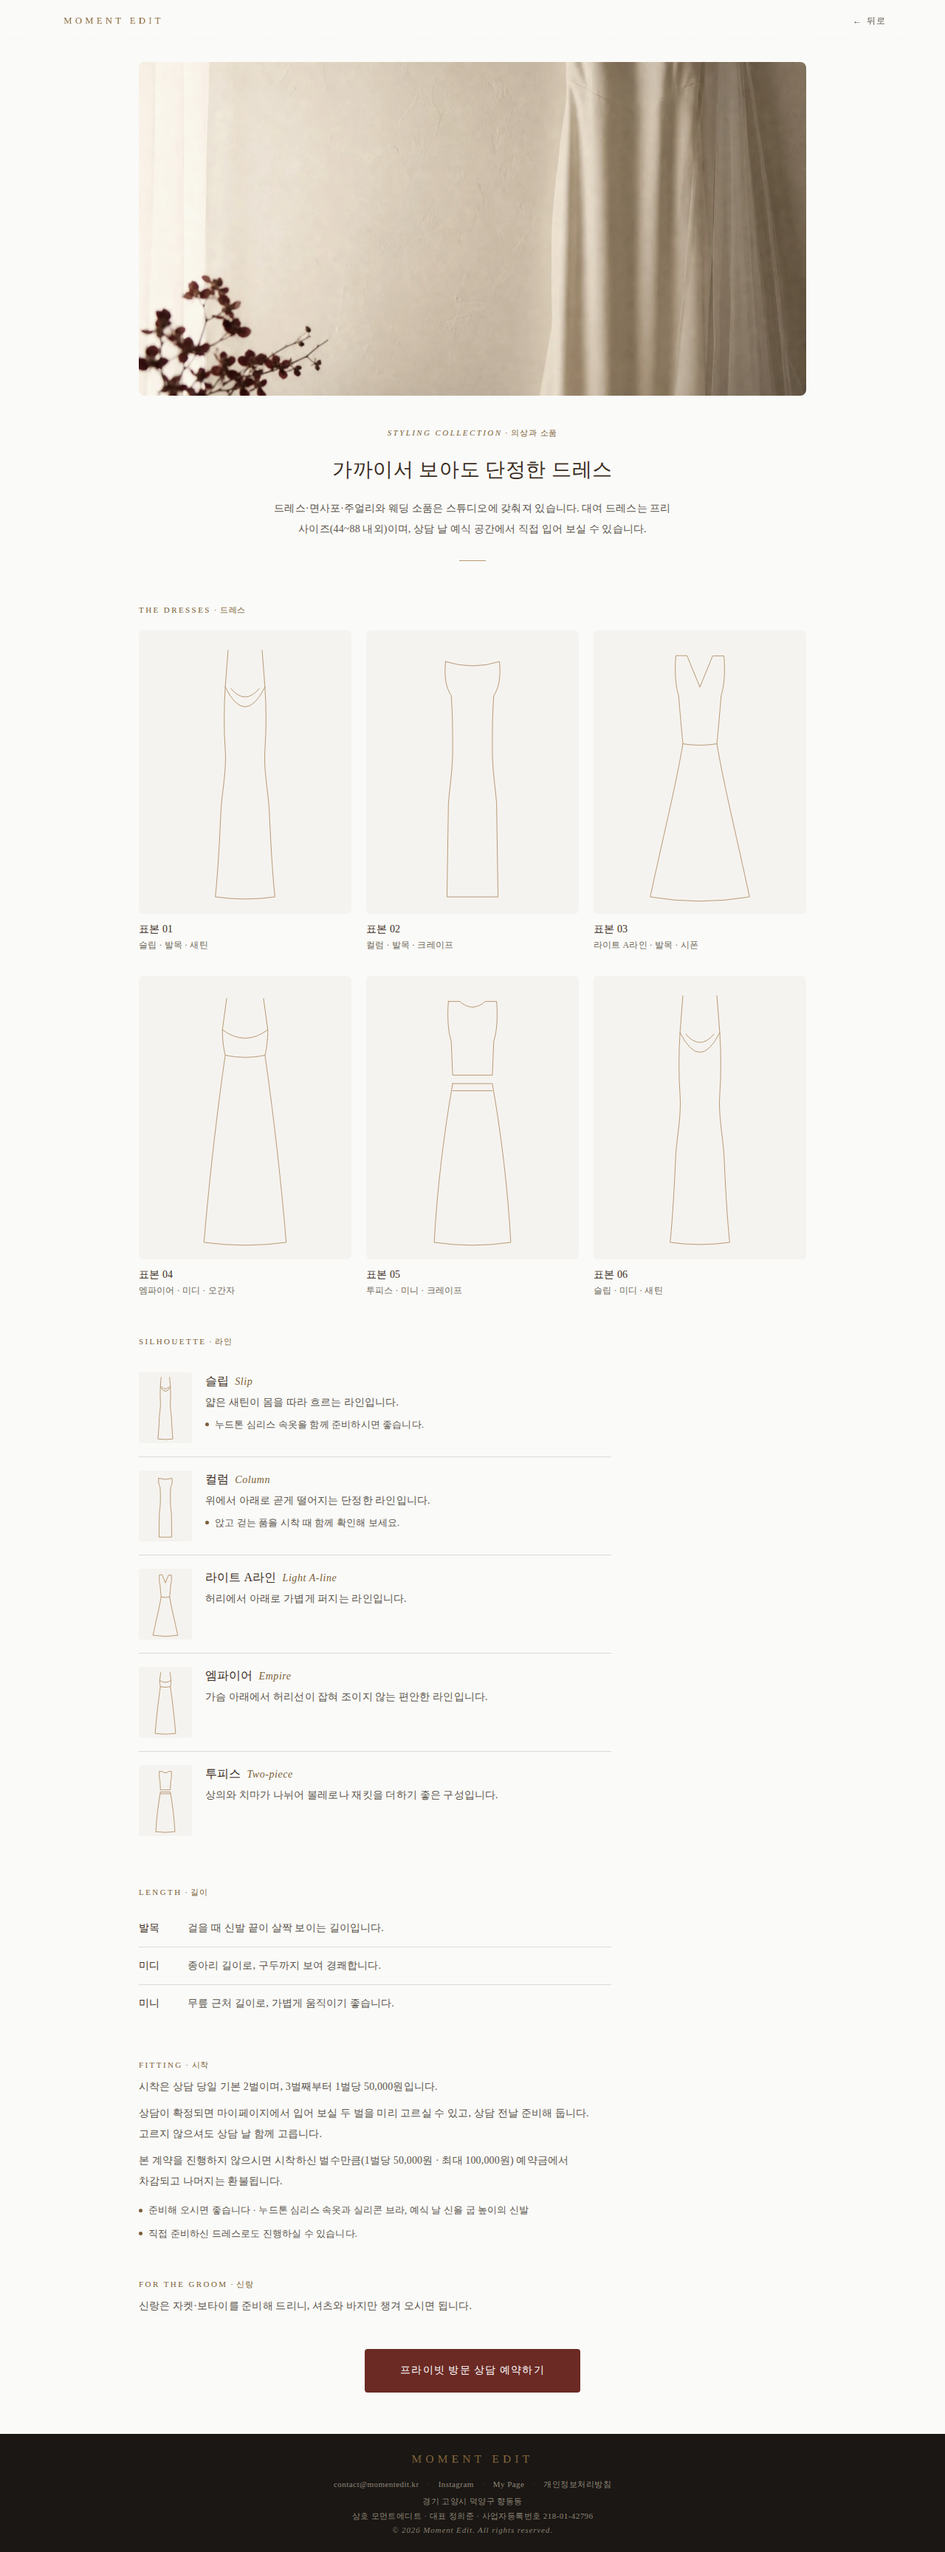
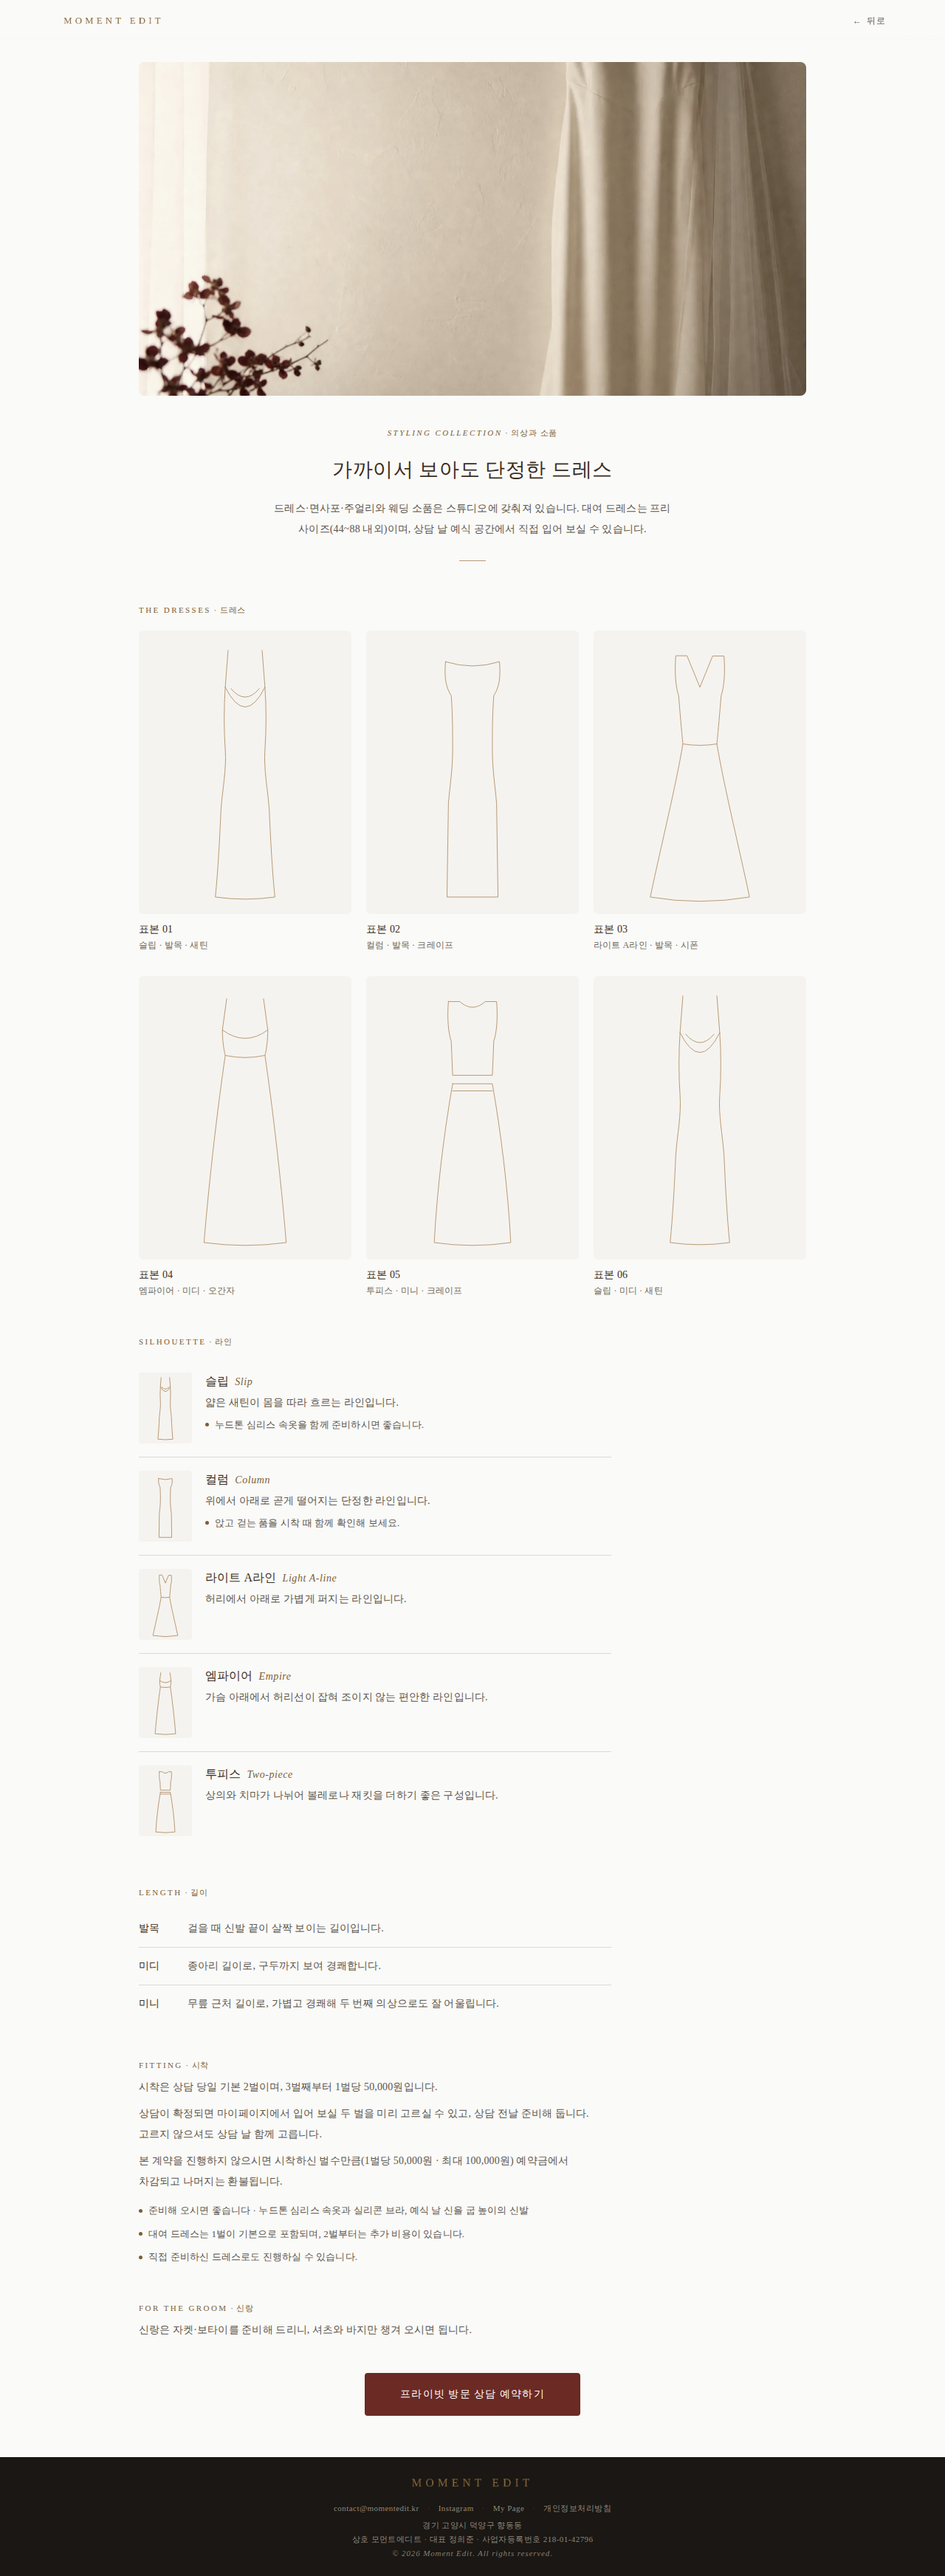
시착 준비 — 회신 4 보충: 결정 대기 셋을 사이트 · 계약서 근거로 닫음 [DRESS_DECIDED_1023]
코워크 회신 4 보충(사장님 «너가 홈페이지 뒤져서 찾아봐»)대로, 회신 4 의 «사장님 결정 대기» 셋을
사이트 · 계약서의 근거 줄로 대신한다.

1. 대여 포함 · 추가금 [DRESS_RENT_ONE]
   공개 시착 칸 점 줄에 «대여 드레스는 1벌이 기본으로 포함되며, 2벌부터는 추가 비용이 있습니다.»
   근거: 신청서 «대여 희망 벌 수 · 1벌 기본 포함 · 2벌부터 추가금 발생» · 계약서 v1-1 별도 «추가 의상»
   · 홈 가격표 «추가 의상 · 선택». 2벌째 금액은 어디에도 없어 숫자를 쓰지 않는다.
   차례는 «준비해 오시면 좋습니다» 다음 · «직접 준비하신 드레스» 앞(대여 → 직접 준비가 한 짝으로 읽히게).
2. 미니 설명 [DRESS_KNEE_SECOND]
   «무릎 근처 길이로, 가볍고 경쾌해 두 번째 의상으로도 잘 어울립니다.»
   근거: 140분 진행 Farewell «편하게 환복하는 마무리» 뒤가 다이닝 — 대여 드레스로 식당에 가지 않는다.
3. fitNote 빈 값 그대로 [DRESS_FITNOTE_EMPTY]
   맞추는 방법이 어디에도 없다 · 머리 본문 «상담 날 예식 공간에서 직접 입어 보실 수 있습니다»가 그 몫.

지키는 것
- dress-refs.mjs ⑪: 점 줄 셋 차례 · 신청서 문장과 대조 · 대여 줄 금액 없음 · 미니 문장 · 드레스 글 «식사» 없음
  · fitNote 빈 값 + 머리 본문 · 쓰지 않는 낱말(옛 «두 번째 착장» · 갈아입기 · 대여료 · 추가금)
  — 옛 [DRESS_PENDING_HIDE] 를 대신한다. 깨 보기 다섯 더함(모두 24가지 빨강 · 대조 초록)
- merge-guard: 새 문장 셋 · 표식 넷 · «식사 자리» 막기

그림: 공개 페이지 전체(390 · 1280) 다시 · 길이 · 시착 칸만 자른 두 장(pub-len-fit) 더함.
병합하지 않는다 — 코워크가 실렌더로 다시 본 뒤 사장님께 여쭙는다.

Claude-Session: https://claude.ai/code/session_01RvnB9A4z4CDWmJbisiCiY4

diff --git a/assets/dress-refs.js b/assets/dress-refs.js
@@ -23,7 +23,7 @@
     live: false,             // [DRESS_LIVE] 기능 스위치 — 켜는 것은 이번 범위가 아니다
     pick: 2,                 // 시착 기본 2벌 = 고르는 칸 Nº 01 · Nº 02
     changeUntilDays: 2,      // 바꾸기 마감 = 상담일 −2일 23:59(한국 시각) · 서버(consultation-booking.gs DRESS_PICK)도 같은 값
-    fitNote: '',             // 프리 사이즈 맞추는 방식 한 줄 · 사장님 결정 전엔 빈 값 = 줄 숨김
+    fitNote: '',             // 프리 사이즈 맞추는 방식 한 줄 · ★[DRESS_FITNOTE_EMPTY 2026-10-23 코워크 회신 4 보충] 빈 값 그대로(줄 없음) — 맞추는 방법이 사이트 · 계약서 어디에도 없다 · 머리 본문 «상담 날 예식 공간에서 직접 입어 보실 수 있습니다»가 그 몫
     PROD_HOSTS: ['momentedit.kr', 'www.momentedit.kr'],   // shared/preview-guard.js 와 같아야 한다(검사가 대조)
 
     /* 라인(실루엣) 다섯 — fit 은 고르기 화면 «어떤 핏이 편하세요?» 답과 잇는 값(body 몸 선을 따라 · waist 허리만 잡고 아래는 여유 · loose 전체적으로 여유)
@@ -48,11 +48,12 @@
 
     /* 길이 셋 — ko 는 공개 페이지 · 드레스 한 줄의 이름, q 는 고르기 화면 물음의 답 글
        ★[DRESS_LEN_WORDS 2026-10-23 코워크 검토 4] 답 글은 칸 한 줄의 «미디 · 미니»와 이어지게(«미디(종아리)» · «미니(무릎 근처)»).
-       ★갈아입기(두 번째 옷) 운영은 사장님 결정 대기라 화면에 쓰지 않는다(종전 미니 설명에서 걷었다 · 검사가 그 낱말을 막는다) */
+       ★[DRESS_KNEE_SECOND 2026-10-23 코워크 회신 4 보충] 미니 = «두 번째 의상»은 쓰되 다이닝은 쓰지 않는다 — 대여가 2벌부터 추가 비용(신청서)이라 두 번째 의상이 있고,
+       140분 진행 Farewell «편하게 환복하는 마무리» 뒤가 다이닝이라 대여 드레스를 입고 식당에 가지 않는다(검사가 옛 낱말 · 다이닝 낱말을 막는다) */
     lengths: [
       { key: 'ankle', ko: '발목', q: '발목까지', note: '걸을 때 신발 끝이 살짝 보이는 길이입니다.' },
       { key: 'calf', ko: '미디', q: '미디(종아리)', note: '종아리 길이로, 구두까지 보여 경쾌합니다.' },
-      { key: 'knee', ko: '미니', q: '미니(무릎 근처)', note: '무릎 근처 길이로, 가볍게 움직이기 좋습니다.' }
+      { key: 'knee', ko: '미니', q: '미니(무릎 근처)', note: '무릎 근처 길이로, 가볍고 경쾌해 두 번째 의상으로도 잘 어울립니다.' }
     ],
 
     /* 고르기 화면의 물음 셋(한 화면에 하나 · 모두 «건너뛰기» 가능) — 'unsure'(아직 몰라요) · 건너뛰기는 그 조건을 보지 않는다

diff --git a/dress.html b/dress.html
@@ -375,7 +375,10 @@ html.pk-on{scroll-padding-bottom:150px}   /* [WZ_BAR_FOCUS] 막대가 붙으면 
 
   <!-- ⑤ 시착 — ★[DRESS_FIT_FEE 2026-10-23 코워크 검토 4] 시착비를 숨기지 않는다(PRODUCT «가격 · 환불을 숨김없이»).
        금액 · 낱말은 홈 가격표(«상담 당일 · 기본 2벌» · «₩50,000/벌 · 3벌째부터») · 시착 동의서(70_journey FITTING_CONSENT «1벌당 50,000원 · 최대 100,000원»)
-       · 신청서 Nº 03(«시착하신 벌수만큼 … 차감되고 나머지») · 홈 상담 약관(«나머지는 환불됩니다»)과 한 글자씩 맞췄다 — scripts/audit/dress-refs.mjs 가 대조한다 -->
+       · 신청서 Nº 03(«시착하신 벌수만큼 … 차감되고 나머지») · 홈 상담 약관(«나머지는 환불됩니다»)과 한 글자씩 맞췄다 — scripts/audit/dress-refs.mjs 가 대조한다
+       ★[DRESS_RENT_ONE 2026-10-23 코워크 회신 4 보충 · 사장님 «너가 홈페이지 뒤져서 찾아봐»] 대여 = 1벌 기본 포함 · 2벌부터 추가 비용
+       (신청서 «대여 희망 벌 수 · 1벌 기본 포함 · 2벌부터 추가금 발생» · 계약서 v1-1 별도 «추가 의상» · 홈 가격표 «추가 의상 · 선택»).
+       2벌째 금액은 시그니처 쪽 어디에도 적혀 있지 않아 숫자를 쓰지 않는다 · 신청서 문장이 바뀌면 검사가 빨강이다 -->
   <section class="sec" aria-labelledby="hFit">
     <h2 class="sec-label" id="hFit">Fitting<span class="ll-ko"> · 시착</span></h2>
     <div class="sec-body">
@@ -384,6 +387,7 @@ html.pk-on{scroll-padding-bottom:150px}   /* [WZ_BAR_FOCUS] 막대가 붙으면 
       <p class="fit-p">본 계약을 진행하지 않으시면 시착하신 벌수만큼(1벌당 50,000원 · 최대 100,000원) 예약금에서 차감되고 나머지는 환불됩니다.</p>
       <div class="fit-dots">
         <p class="dotln">준비해 오시면 좋습니다 · 누드톤 심리스 속옷과 실리콘 브라, 예식 날 신을 굽 높이의 신발</p>
+        <p class="dotln">대여 드레스는 1벌이 기본으로 포함되며, 2벌부터는 추가 비용이 있습니다.</p>
         <p class="dotln">직접 준비하신 드레스로도 진행하실 수 있습니다.</p>
       </div>
     </div>
